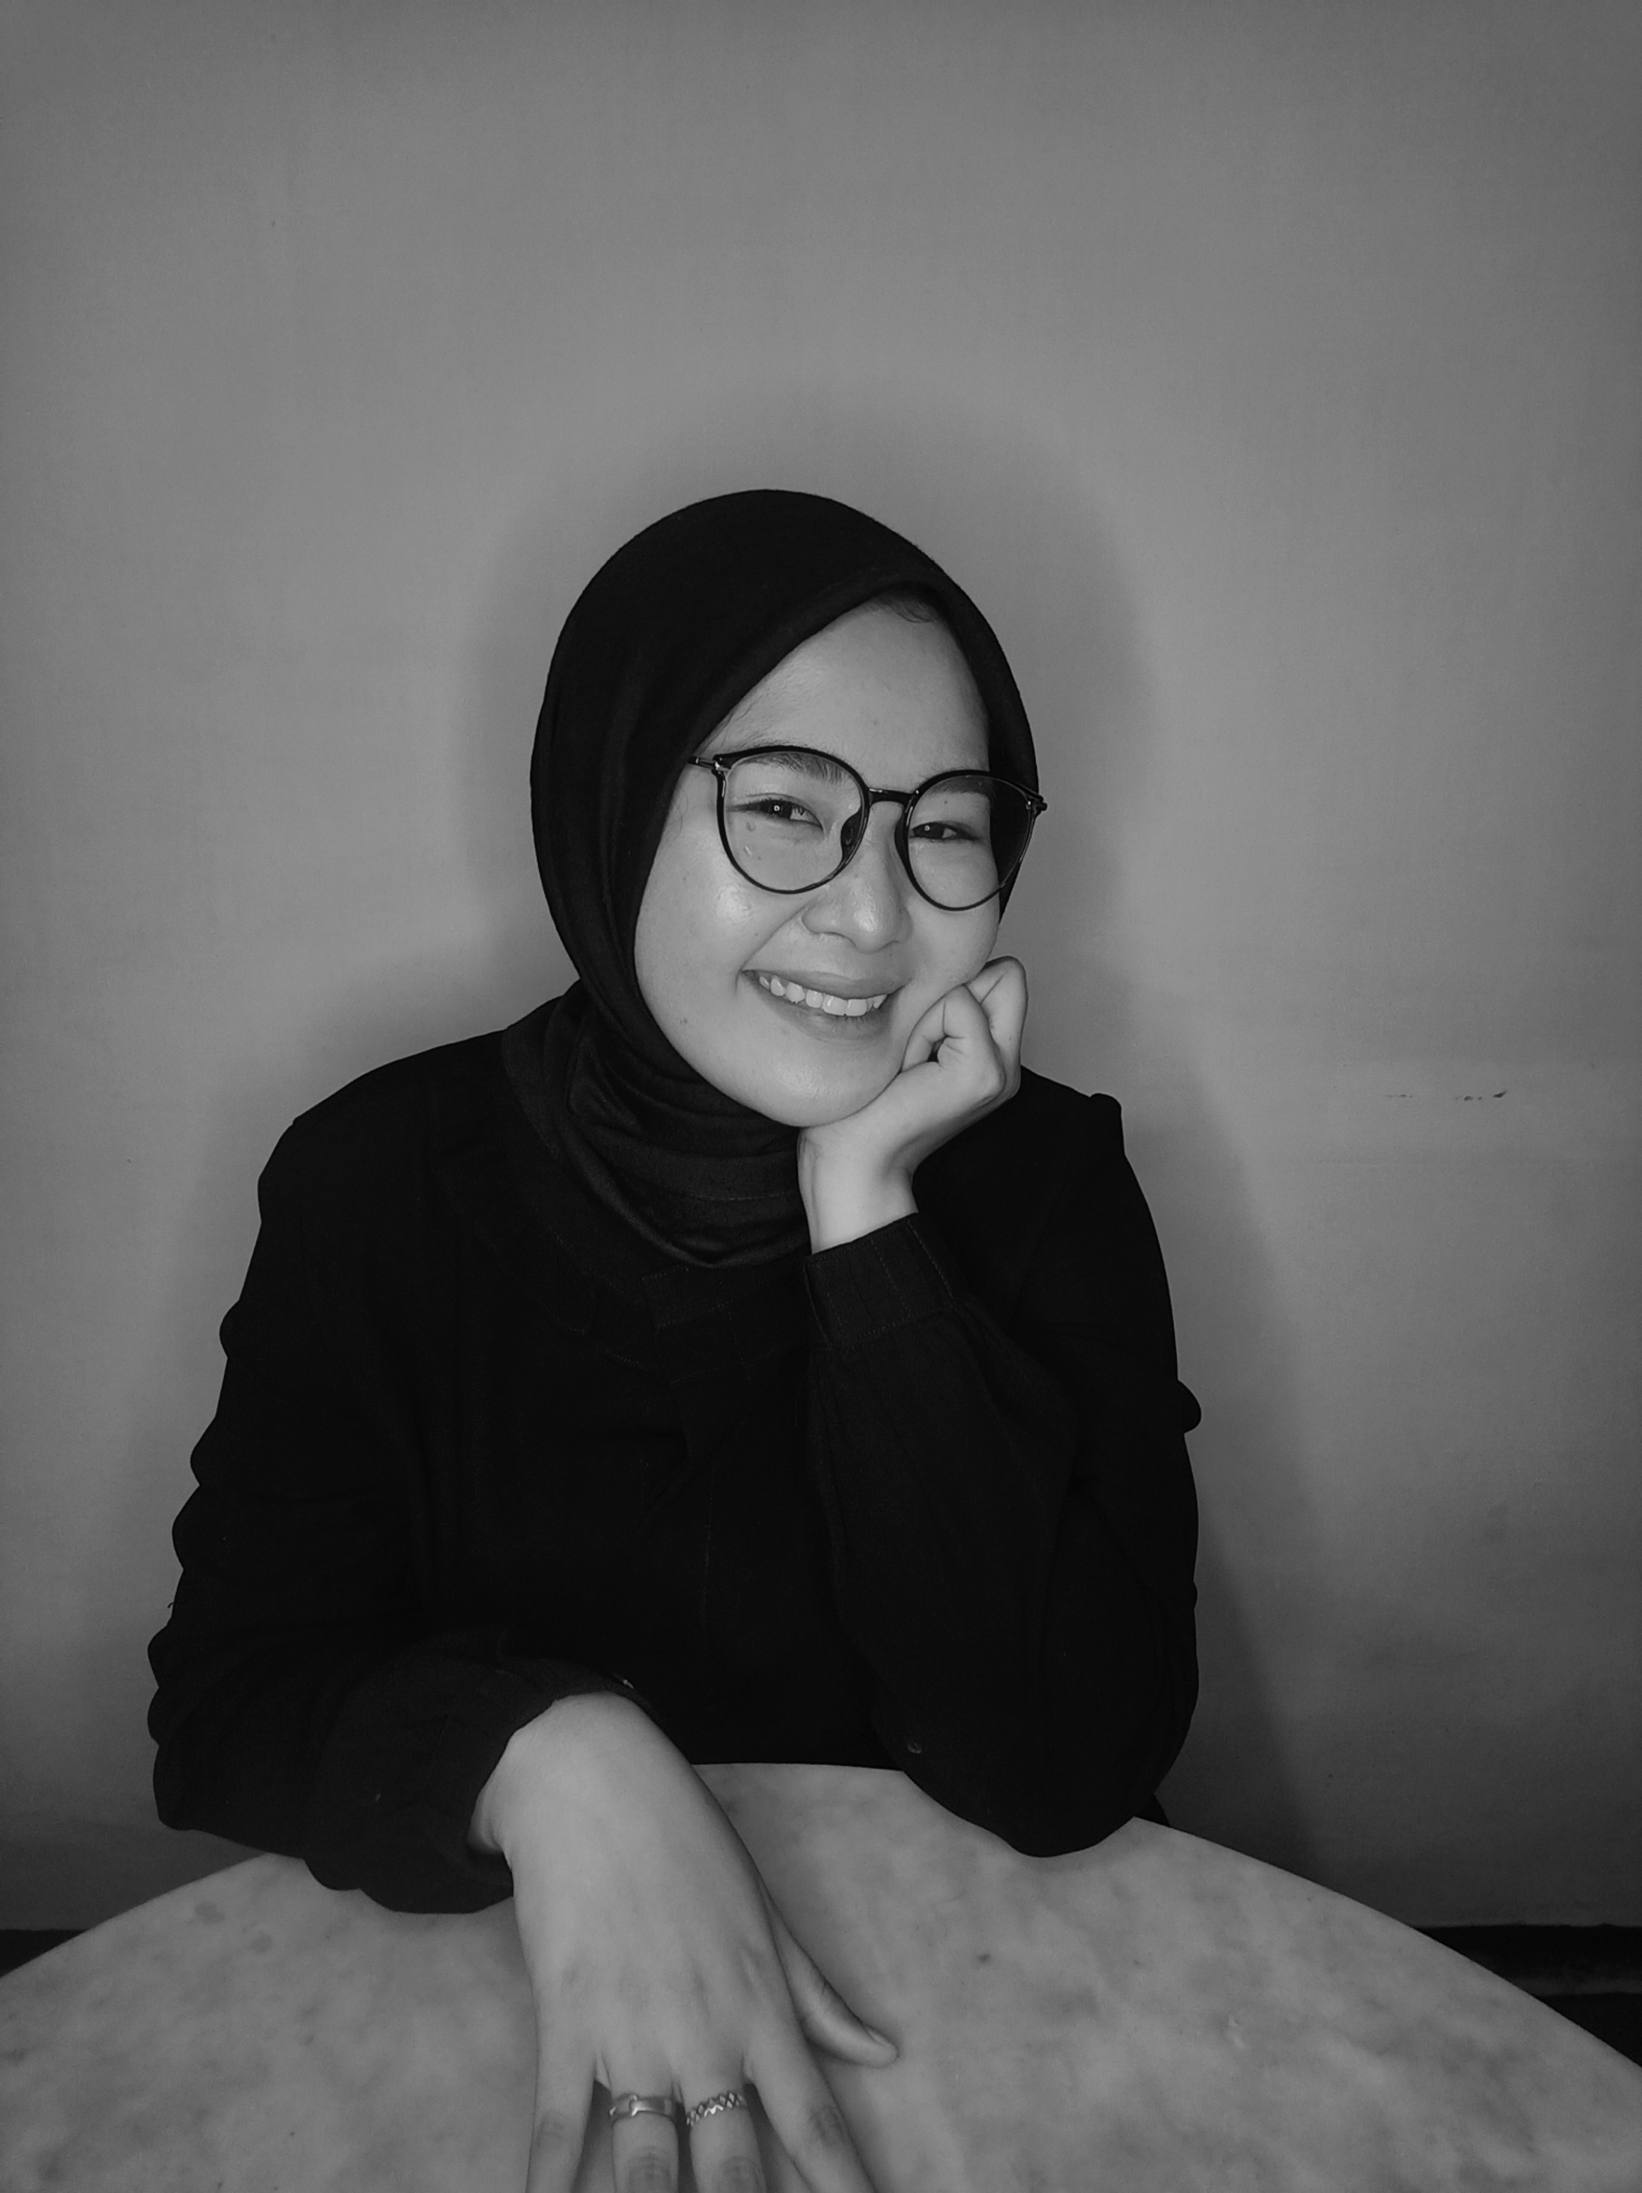
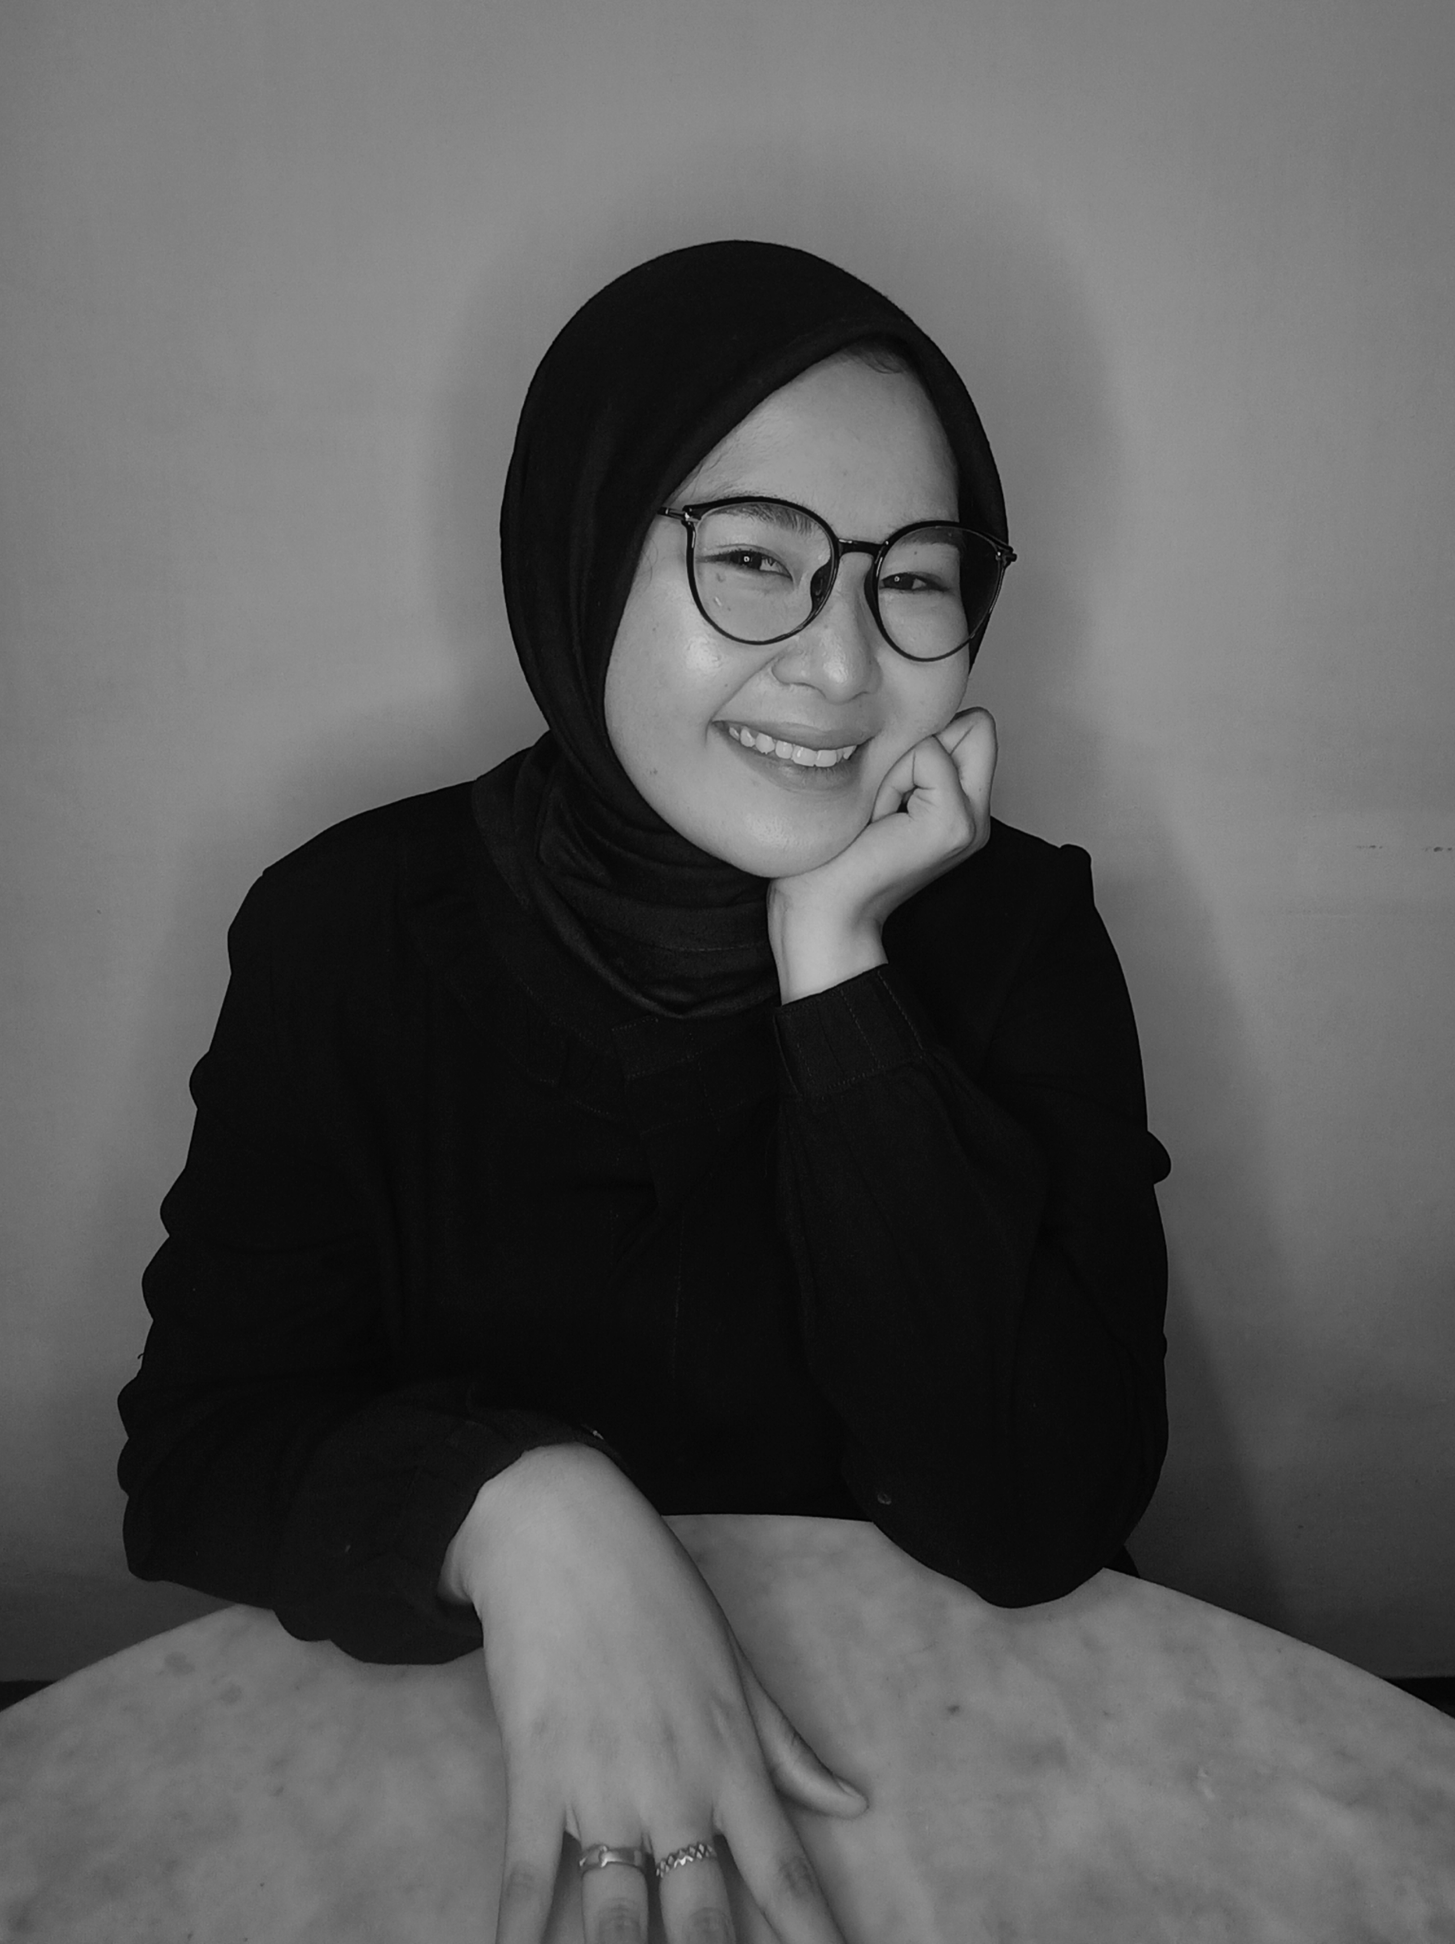
ganti foto putri

diff --git a/static/sw.js b/static/sw.js
@@ -1,4 +1,4 @@
-const options = {"workboxURL":"https://cdn.jsdelivr.net/npm/workbox-cdn@5.1.4/workbox/workbox-sw.js","importScripts":[],"config":{"debug":false},"cacheOptions":{"cacheId":"emateo-prod","directoryIndex":"/","revision":"GyioL0ByAq5O"},"clientsClaim":true,"skipWaiting":true,"cleanupOutdatedCaches":true,"offlineAnalytics":false,"preCaching":[{"revision":"GyioL0ByAq5O","url":"/?standalone=true"}],"runtimeCaching":[{"urlPattern":"/_nuxt/","handler":"CacheFirst","method":"GET","strategyPlugins":[]},{"urlPattern":"/","handler":"NetworkFirst","method":"GET","strategyPlugins":[]}],"offlinePage":null,"pagesURLPattern":"/","offlineStrategy":"NetworkFirst"}
+const options = {"workboxURL":"https://cdn.jsdelivr.net/npm/workbox-cdn@5.1.4/workbox/workbox-sw.js","importScripts":[],"config":{"debug":false},"cacheOptions":{"cacheId":"emateo-prod","directoryIndex":"/","revision":"n4vxJoZOD7o0"},"clientsClaim":true,"skipWaiting":true,"cleanupOutdatedCaches":true,"offlineAnalytics":false,"preCaching":[{"revision":"n4vxJoZOD7o0","url":"/?standalone=true"}],"runtimeCaching":[{"urlPattern":"/_nuxt/","handler":"CacheFirst","method":"GET","strategyPlugins":[]},{"urlPattern":"/","handler":"NetworkFirst","method":"GET","strategyPlugins":[]}],"offlinePage":null,"pagesURLPattern":"/","offlineStrategy":"NetworkFirst"}
 
 importScripts(...[options.workboxURL, ...options.importScripts])
 
